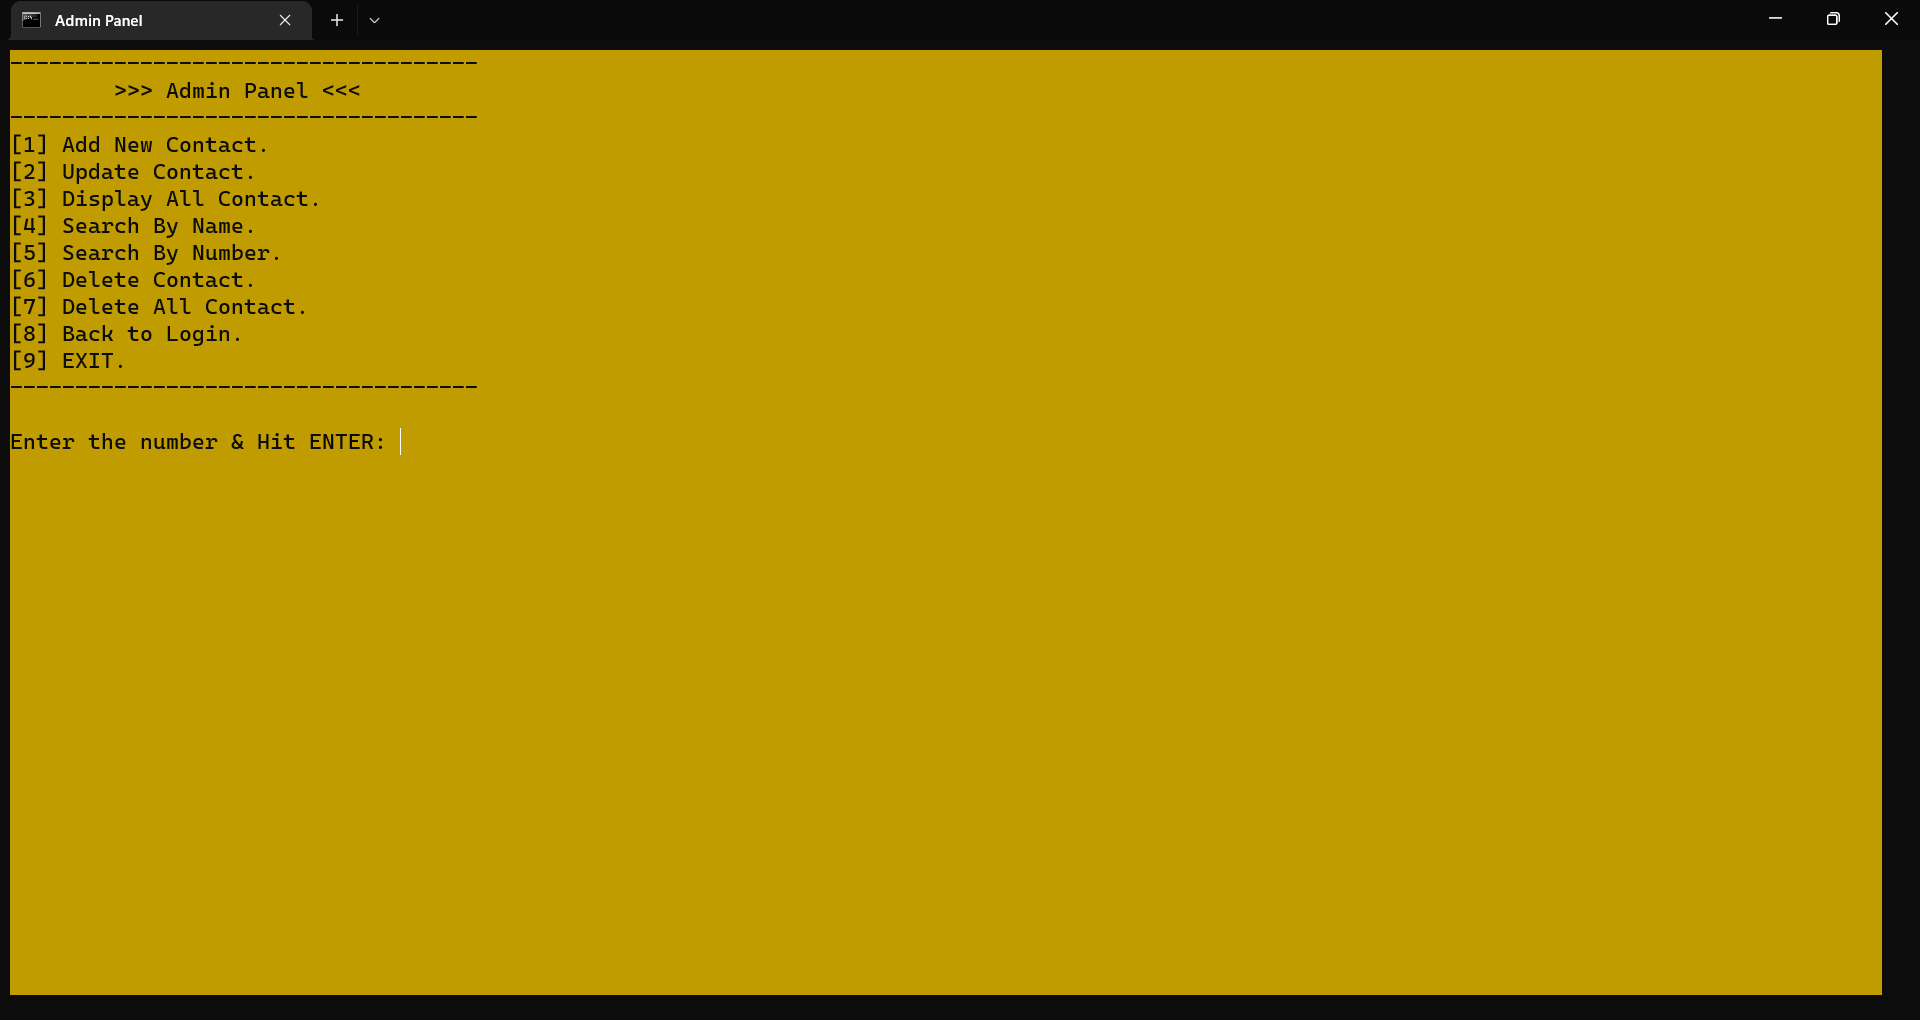
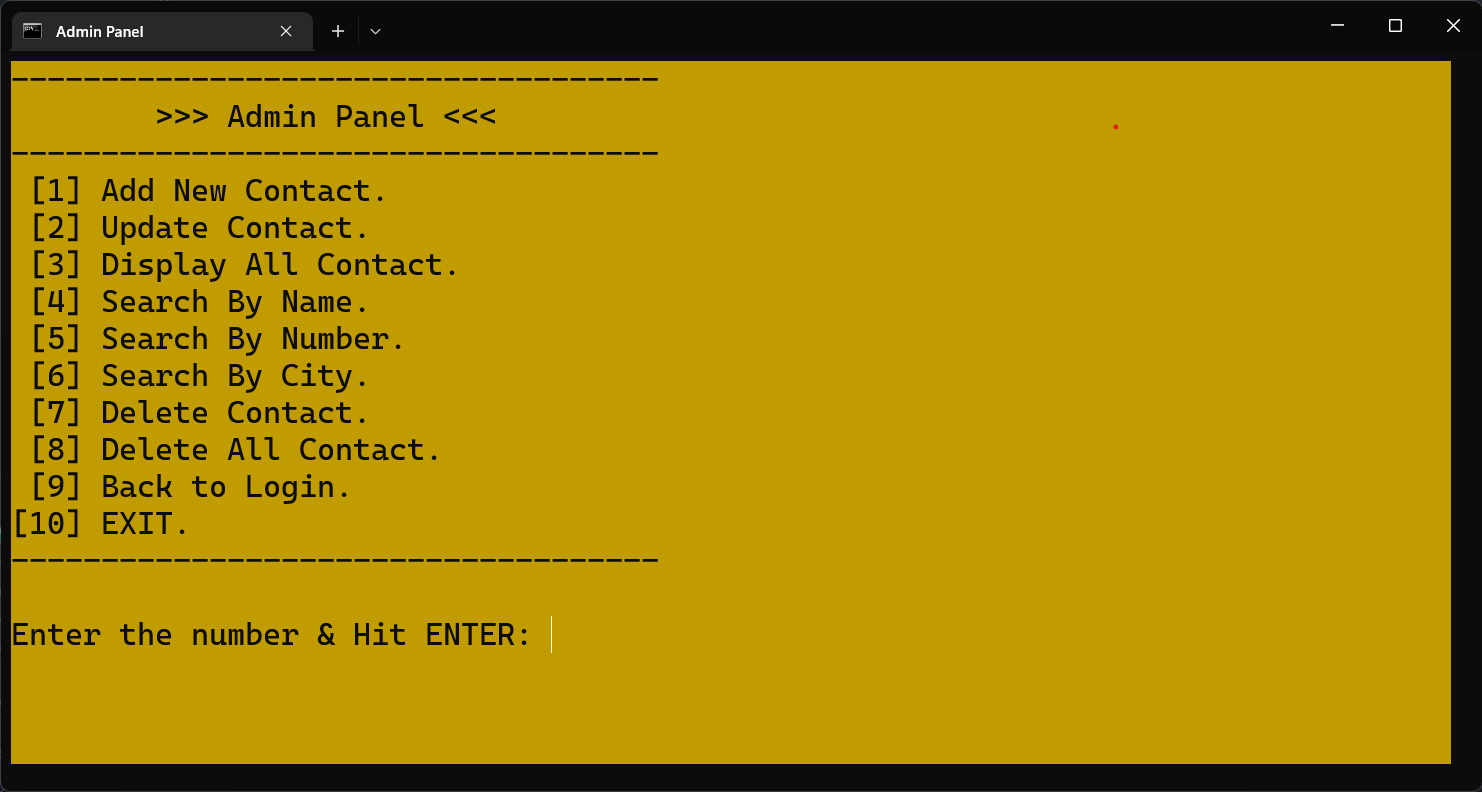
updated all previous output images, added function for unqiue number entry only, updatedContacts are revised to allow changes only to names and city name, added validation for display contacts to check if the file is empty

Changed region(s): [[0.0, 0.0, 1.0, 1.0]]

diff --git a/Code Files/main.c b/Code Files/main.c
@@ -1,13 +1,16 @@
 /*
     Project Title: Phonebook Management System 
     Language: C 
+    GitHub Repository: https://github.com/Alkaison/Phonebook-Management-System 
+    BSc IT Course => Project for Semester-1  
     Concepts: File Handling, Struct, Define, etc. 
 */
 #include<stdio.h>  // almost everything 
 #include<stdlib.h>  // system() 
 #include<string.h>  // strcmp(), strlen() 
 #include<conio.h>  // getch() 
-#include<windows.h>  // Sleep() 
+#include<windows.h>  // Sleep() => for windows OS 
+#include<unistd.h>  // for linux or Mac OS 
 #include<ctype.h>  // isdigit(), isaplha() 
 
 // define constants -> is used to define the constant or the micro substitution 
@@ -51,6 +54,7 @@ void adminPanel();
 int isValidGender(char *gender);  // checks for the gender input 
 int isValidNumeric(char num[]);  // checks for the phone number input 
 int isValidName(char *name);  // checks string for searchByCity & searchByName  
+int checkNumberExistence(char *num);  // checks for the input number if its exists in the database or not 
 char *removeSpaces(char *str);  // removes empty spaces from name inputs 
 void invalidInput(int);  // shows error on invalid inputs and returns them back to the panel 
 void clearBuffer();  // clears the output screen & input buffer 
@@ -135,7 +139,11 @@ void endScreen()
     printf("\n\t\t\t\t------------------------------------------ \n");
     printf("\t\t\t\t   >>> Phonebook Management System <<<     \n");
     printf("\t\t\t\t------------------------------------------ \n\n");
-    printf("\t\t\t\t\t\tThank You. \n\n");
+    printf("\t\t\t\tGitHub: https://github.com/Alkaison \n");
+    printf("\t\t\t\tTwitter: https://twitter.com/Alkaison \n");
+    printf("\t\t\t\tLinkedIn: https://linkedin.com/in/Alkaison \n\n");
+    printf("\t\t\t\t------------------------------------------ \n");
+    printf("\t\t\t\t\t\tThank You. \n");
     printf("\t\t\t\t------------------------------------------ \n\n");
     Sleep(1500);  // pause the screen for 3 seconds 
     exit(0);  // ends the program safely 
@@ -354,6 +362,22 @@ int isValidNumeric(char num[])
     return 0;
 }
 
+int checkNumberExistence(char *num)  // checks for the input number if its exists in the database or not 
+{
+    FILE *pT = fopen("ContactList.txt","r");
+
+    while(fscanf(pT, "%s %s %c %s %s\n",copy.firstName, copy.lastName, &copy.gender, copy.findNum, copy.cityName) != EOF)
+    {
+        if(strcmp(num, copy.findNum) == 0)
+        {
+            fclose(pT);
+            return 0;
+        }
+    }
+    fclose(pT);
+    return 1;
+}
+
 void invalidInput(int entryCode)
 {
     printf("--------------------------------------------- \n");
@@ -419,13 +443,22 @@ void addNewContact()
         {
             if(isValidNumeric(contact.findNum) == 1)
             {
-                removeSpaces(contact.firstName);
-                removeSpaces(contact.lastName);
-                removeSpaces(contact.cityName);
-                fprintf(pF, "%s %s %c %s %s\n", contact.firstName, contact.lastName, contact.gender, contact.findNum, contact.cityName);
-                printf("---------------------------------------------- \n");
-                printf("Success: Contact details added in the record.  \n");
-                printf("---------------------------------------------- \n");
+                if(checkNumberExistence(contact.findNum))
+                {
+                    removeSpaces(contact.firstName);
+                    removeSpaces(contact.lastName);
+                    removeSpaces(contact.cityName);
+                    fprintf(pF, "%s %s %c %s %s\n", contact.firstName, contact.lastName, contact.gender, contact.findNum, contact.cityName);
+                    printf("---------------------------------------------- \n");
+                    printf("Success: Contact details added in the record.  \n");
+                    printf("---------------------------------------------- \n");
+                }
+                else
+                {
+                    printf("---------------------------------------------------- \n");
+                    printf("ERROR: Phone number already exists in the database. \n");
+                    printf("---------------------------------------------------- \n");
+                }
             }
             else
                 flag = 1;
@@ -490,53 +523,25 @@ void updateContact()
             printf("Enter the city name: ");
             gets(copy.cityName);
 
-            printf("Enter the gender [M/F]: ");
-            scanf(" %c",&copy.gender);
-            fflush(stdin);
-            
-            printf("Enter the phone number [+91]: ");
-            gets(copy.findNum);
-
             fflush(stdin);
             printf("\n");
-            removeSpaces(copy.findNum);
-            if(isValidGender(&copy.gender))
+
+            printf("Type `CONFIRM` to update this details: ");
+            gets(confirmDelete);
+            if(strcmp(confirmDelete, "CONFIRM") == 0)
             {
-                if(isValidNumeric(copy.findNum) == 1)
-                {
-                    printf("Type `CONFIRM` to update this details: ");
-                    gets(confirmDelete);
-                    if(strcmp(confirmDelete, "CONFIRM") == 0)
-                    {
-                        // validates everything and fetchs into file 
-                        removeSpaces(copy.firstName);
-                        removeSpaces(copy.lastName);
-                        removeSpaces(copy.cityName);
-                        printf("\nProcessing . . . \n\n");
-                        fprintf(pT, "%s %s %c %s %s\n",copy.firstName, copy.lastName, copy.gender, copy.findNum, copy.cityName);
-                        flag = 2;
-                    }
-                    else
-                    {
-                        flag = 1;
-                        fprintf(pT, "%s %s %c %s %s\n", contact.firstName, contact.lastName, contact.gender, contact.findNum, contact.cityName);
-                    }
-                }
-                else
-                {
-                    fprintf(pT, "%s %s %c %s %s\n", contact.firstName, contact.lastName, contact.gender, contact.findNum, contact.cityName);
-                    if(len == 0)
-                    {
-                        printf("--------------------------------------------- \n");
-                        printf("ERROR: Invalid input please try again later.  \n");
-                        printf("--------------------------------------------- \n");
-                    }
-                }
+                // validates everything and fetchs into file 
+                removeSpaces(copy.firstName);
+                removeSpaces(copy.lastName);
+                removeSpaces(copy.cityName);
+                printf("\nProcessing . . . \n\n");
+                fprintf(pT, "%s %s %c %s %s\n",copy.firstName, copy.lastName, contact.gender, contact.findNum, copy.cityName);
+                flag = 2;
             }
             else
             {
+                flag = 1;
                 fprintf(pT, "%s %s %c %s %s\n", contact.firstName, contact.lastName, contact.gender, contact.findNum, contact.cityName);
-                flag = 3;
             }
         }
         else
@@ -721,14 +726,22 @@ void displayContact(int entryCode)
     printf("\t\t\t\t---------------------------- \n\n");
     pF = fopen("ContactList.txt", "r");
 
-    printf("\t\t|===============================================================| \n");
-    printf("\t\t|ID| \tName\t\t| Gender | Phone Number\t| City Name\t| \n");
-    printf("\t\t|===============================================================| \n");
+    if(fscanf(pF, "%s %s %c %s %s\n",contact.firstName, contact.lastName, &contact.gender, contact.findNum, contact.cityName) != EOF)
+    {
+        printf("\t\t|===============================================================| \n");
+        printf("\t\t|ID| \tName\t\t| Gender | Phone Number\t| City Name\t| \n");
+        printf("\t\t|===============================================================| \n");
 
-    while(fscanf(pF, "%s %s %c %s %s\n",contact.firstName, contact.lastName, &contact.gender, contact.findNum, contact.cityName) != EOF)
-        printf("\t\t| %d| %s %s \t| %c |\t %s \t| %s \t| \n", counter++, contact.firstName, contact.lastName, contact.gender, contact.findNum, contact.cityName);
+        do
+        {
+            printf("\t\t| %d| %s %s \t| %c |\t %s \t| %s \t| \n", counter++, contact.firstName, contact.lastName, contact.gender, contact.findNum, contact.cityName);
 
-    printf("\t\t|===============================================================| \n\n");
+        } while(fscanf(pF, "%s %s %c %s %s\n",contact.firstName, contact.lastName, &contact.gender, contact.findNum, contact.cityName) != EOF);
+
+        printf("\t\t|===============================================================| \n\n");
+    }
+    else
+        printf(" ERROR: Either we are unable to locate the ContactList.txt file or\n\t there are no contacts saved in the file. \n\n");
 
     fclose(pF);
     system("pause");

diff --git a/README.md b/README.md
@@ -6,7 +6,7 @@ Phonebook Management System in the C programming language is a software applicat
 ## Description
 
 You can learn the fundamentals of functions, file handling, and data 
-structure by working on the Phonebook Management System mini-project. 
+structure by working on the Phonebook Management System. 
 This system will show you how to add, list, change or edit, search for, and 
 remove data from/to a file. The functions that make up this project's menu 
 include adding new records, listing them, editing and updating them, looking 
@@ -14,11 +14,11 @@ for saved contacts, and deleting phonebook entries.
 
 ## Documents 
 
-- Synopsis report [here](/Documents/PhonebookManagementSystem_Synopsis.pdf)
-- Use case diagram [here](/Documents/PhonebookManagementSystem_UseCaseDiagram.pdf)
+- Synopsis report [here](/Documents/PhonebookManagementSystem_Synopsis.pdf "Synopsis Report")
+- Use case diagram [here](/Documents/PhonebookManagementSystem_UseCaseDiagram.pdf "Use Case Diagram")
 - Output Images [here](/Images/)
 
-**Note:** If the documents are not rendering on github please download the repository [here](https://github.com/Alkaison/Phonebook-Management-System/archive/refs/heads/main.zip). 
+**Note:** If the documents are not rendering on github please download the repository [here](https://github.com/Alkaison/Phonebook-Management-System/archive/refs/heads/main.zip "Latest Code"). 
 
 ## Features 
 
@@ -28,11 +28,14 @@ We have used many functions in this project. These functions are very easy to un
 - Secure Password Login
 - Admin Panel
 - User Panel
+- Unique phone numbers
+- Advance validation function for user input 
 - Add New Contact
 - Update Contact
 - Display All Contact
 - Search By Name
 - Search By Number
+- Search By City 
 - Delete Contact
 - Delete All Contact
 
@@ -42,59 +45,79 @@ We have used many functions in this project. These functions are very easy to un
 
 - A software (IDE) for reviewing the code
 - C/C++ compiler (Recommended: GCC Compiler)
-- Command Prompt or Windows Powershell
+- Command Prompt or Windows Powershell 
 
 **Note:** This program won't run on online compilers as they don't provide libraries for FILE Management & external storing.
 
+## Contributing 
+
+- If you wish to contribute a new function or want to improve the code quality, you are welcome for your contributions. 
+
+- Fork the repository & make changes, after completion open pull request.
+
+- Thanks in advance 💛 
+
 ## Screenshots 🖼
 
-### 01. Information Page
+### 01. Introduction Screen 
 
-![Information Page](https://i.ibb.co/T8thjdf/PMS-01-Information-Page.png)
+![Information Page](https://i.ibb.co/rktHD2C/PMS-01-Introduction-Screen.png)
 
-### 02. Login Page
+### 02. Login Screen 
 
-![Login Page](https://i.ibb.co/BfqPzCL/PMS-02-Login-Page.png)
+![Login Page](https://i.ibb.co/vYn8Fnm/PMS-02-Login-Screen.png)
 
 ### 03. Secure Password Login
 
-![Secure Password Login](https://i.ibb.co/kJT6R4J/PMS-03-Secure-Password.png)
+![Secure Password Login](https://i.ibb.co/KzPmpFF/PMS-03-Admin-Login-Secure.png)
 
 ### 04. Admin Panel
 
-![Admin Panel](https://i.ibb.co/BNP4Rns/PMS-04-Admin-Panel.png)
+![Admin Panel](https://i.ibb.co/Fb0gfXv/PMS-04-Admin-Panel.png)
 
 ### 05. User Panel
 
-![User Panel](https://i.ibb.co/FqZ35cm/PMS-05-User-Panel.png)
+![User Panel](https://i.ibb.co/743mZbx/PMS-05-User-Panel.png)
 
 ### 06. Add New Contact
 
-![Add New Contact](https://i.ibb.co/nfR06x6/PMS-06-Add-New-Contact.png)
+![Add New Contact](https://i.ibb.co/YtvXhJs/PMS-06-Add-New-Contact.png)
 
 ### 07. Update Contact
 
-![Update Contact](https://i.ibb.co/vkh7bYF/PMS-07-Update-Contact.png)
+![Update Contact](https://i.ibb.co/vvvXRhh/PMS-07-Update-Contact.png)
 
 ### 08. Display All Contact
 
-![Display All Contact](https://i.ibb.co/vJCXBsw/PMS-08-Display-All-Contacts.png)
+![Display All Contact](https://i.ibb.co/p2x9cvx/PMS-08-Display-All-Contacts.png)
 
 ### 09. Search By Name
 
-![Search By Name](https://i.ibb.co/CtvLXSH/PMS-09-Search-By-Name.png)
+![Search By Name](https://i.ibb.co/3MGKWmn/PMS-09-Seach-By-Name.png)
 
 ### 10. Search By Number
 
-![Search By Number](https://i.ibb.co/WsRSZjK/PMS-10-Search-By-Number.png)
+![Search By Number](https://i.ibb.co/0tL532S/PMS-10-Search-By-Number.png)
 
-### 11. Delete Contact
+### 11. Search By City Name 
 
-![Delete Contact](https://i.ibb.co/1zzcpcQ/PMS-11-Delete-Contact.png)
+![Search By City Name](https://i.ibb.co/hyXZMhd/PMS-11-Search-By-City-Name.png)
 
-### 12. Delete All Contact
+### 12. Delete Contact
 
-![Delete All Contact](https://i.ibb.co/Smbmhb9/PMS-12-Delete-All-Contact.png)
+![Delete Contact](https://i.ibb.co/6DYFThb/PMS-12-Delete-Contact.png)
+
+### 13. Delete All Contact
+
+![Delete All Contact](https://i.ibb.co/BP5CdYT/PMS-13-Delete-All-Contacts.png)
+
+### 14. No Contacts Error 
+
+![No Contacts Error](https://i.ibb.co/LSzLfZ8/PMS-14-No-Contact-Error.png)
+
+### 15. Exit Screen 
+
+![Exit Screen](https://i.ibb.co/N3z5qqM/PMS-15-Exit-Screen.png)
 
 ## MIT LICENSE 📔
 
